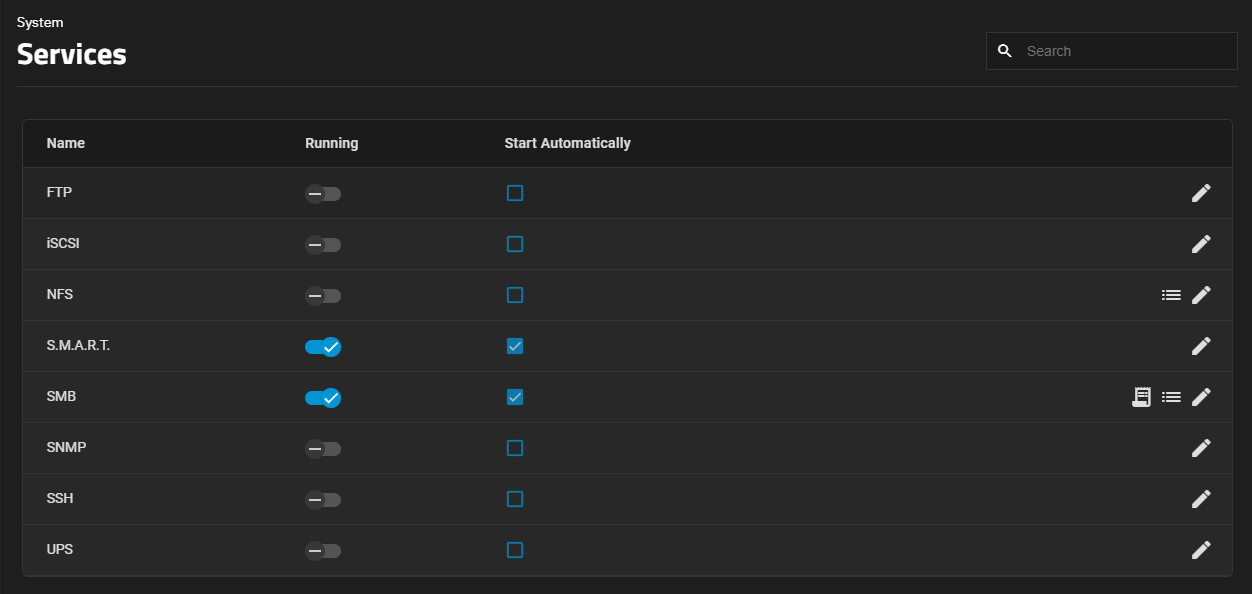
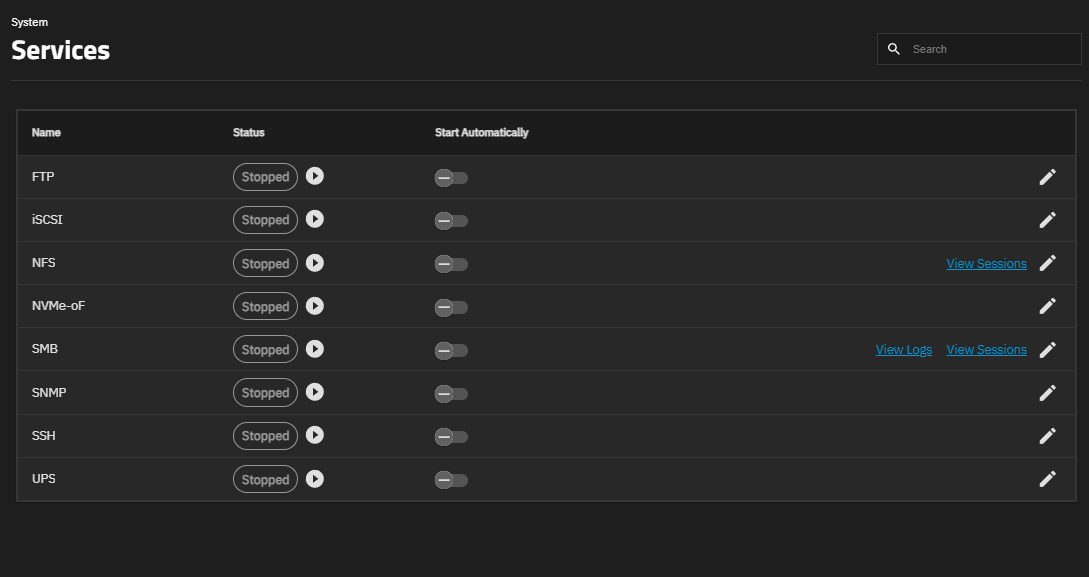
PD-2194-services-simplification

diff --git a/content/SCALE/SCALEUIReference/SystemSettings/Services/_index.md b/content/SCALE/SCALEUIReference/SystemSettings/Services/_index.md
@@ -20,15 +20,15 @@ related: false
 
 The <span class="material-icons">edit</span> **Configure** icon opens the service configuration screen.
 
-The **NFS** service row has one additional <span class="iconify" data-icon="material-symbols:list"></span> **NFS Sessions** icon that opens the [**NFS Sessions** screen]({{< ref "NFSSharesScreens" >}}).
+The **NFS** service row has one additional **View Sessions** link that opens the [**NFS Sessions** screen]({{< ref "NFSSharesScreens" >}}).
 
-The **SMB** service row has two additional icons that link to other screens:
-* <span class="iconify" data-icon="material-symbols:receipt-long"></span> **Audit Logs** opens the **Audit** screen.
-* <span class="iconify" data-icon="material-symbols:list"></span> **SMB Sessions** opens the [**SMB Status** screen]({{< ref "SMBSharesScreens" >}}).
+The **SMB** service row has two additional links:
+* **View Logs** opens the **Audit** screen.
+* **View Sessions** opens the [**SMB Status** screen]({{< ref "SMBSharesScreens" >}}).
 
-Select **Start Automatically** to set the service to start after the system restarts.
+The **Start Automatically** toggle sets the service to start after the system restarts.
 
-Click on the **Running** toggle to start the service or to stop it if it is running. Stop services before changing configuration settings.
+The **Status** column displays the service status with a badge (Stopped or Running) and a <span class="material-icons">play_circle</span>/<span class="material-icons">stop_circle</span> start/stop button. The start/stop button starts the service or stops it if it is running. It is recommended to stop services before changing configuration settings.
 
 {{<include file="/static/includes/addcolumnorganizer.md">}}
 

diff --git a/content/SCALE/SCALEUIReference/SystemSettings/Services/SMBServicesScreen.md b/content/SCALE/SCALEUIReference/SystemSettings/Services/SMBServicesScreen.md
@@ -10,10 +10,10 @@ tags:
  - services
 ---
 
-The **System > Services** screen includes three icons on the **SMB** service row:
-* <span class="iconify" data-icon="material-symbols:receipt-long"></span> **Audit Logs** opens the [**Audit** screen]({{< ref "AuditingSCALE.md#accessing-auditing-screens" >}}).
-* <span class="iconify" data-icon="material-symbols:list"></span> **SMB Sessions** opens the [**SMB Status** screen]({{< ref "SMBSharesScreens" >}}).
-* <span class="iconify" data-icon="ic:baseline-edit"></span> **Configure** opens the **SMB Service** screen showing the **Basic Settings** by default.
+The **System > Services** screen includes three options on the **SMB** service row:
+* **View Logs** opens the [**Audit** screen]({{< ref "AuditingSCALE.md#accessing-auditing-screens" >}}).
+* **View Sessions** opens the [**SMB Status** screen]({{< ref "SMBSharesScreens" >}}).
+* <span class="material-icons">edit</span> **Configure** icon opens the **SMB Service** screen showing the **Basic Settings** by default.
 
 ## SMB Service Screen
 The **SMB** service screen displays setting options to configure TrueNAS SMB service settings to fit your use case.

diff --git a/content/SCALE/SCALEUIReference/SystemSettings/Services/NFSServiceScreen.md b/content/SCALE/SCALEUIReference/SystemSettings/Services/NFSServiceScreen.md
@@ -11,9 +11,9 @@ tags:
 ---
 
 
-The **System > Services** screen includes two icons on the **NFS** service row:
-* <span class="iconify" data-icon="material-symbols:list"></span> **NFS Sessions** opens the [**NFS Sessions** screen]({{< ref "NFSSharesScreens#nfs-sessions-screen" >}}).
-* <span class="iconify" data-icon="ic:baseline-edit"></span> **Configure** opens the **NFS Service** screen.
+The **System > Services** screen includes two options on the **NFS** service row:
+* **View Sessions** opens the [**NFS Sessions** screen]({{< ref "NFSSharesScreens#nfs-sessions-screen" >}}).
+* <span class="material-icons">edit</span> **Configure** icon opens the **NFS Service** screen.
 
 {{< hint type=info title="UDP Protocol and NFS" >}}
 {{< include file="/static/includes/NFSServiceUDPWarning.md" >}}
